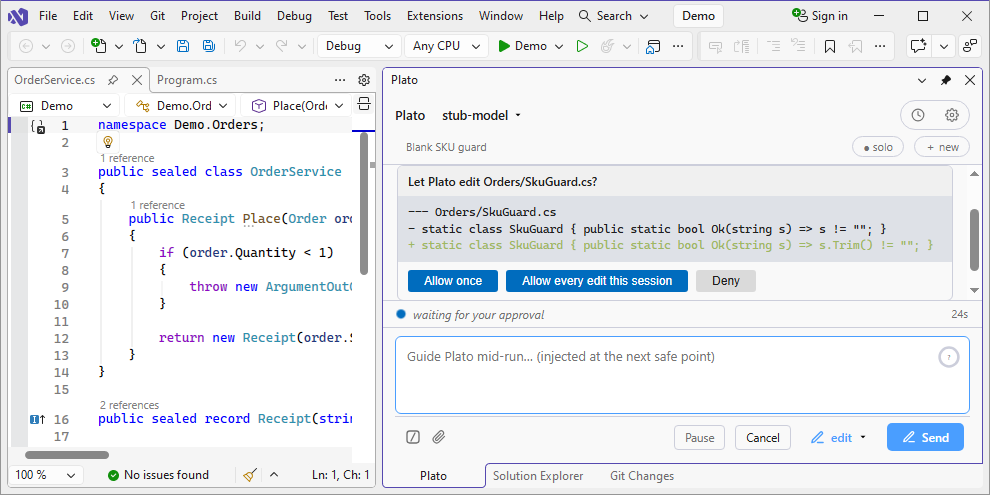
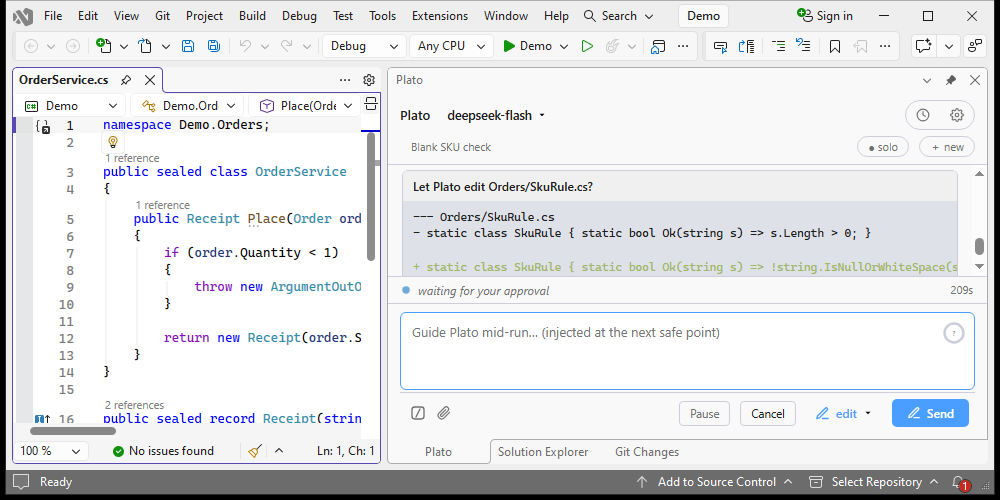
media: the Visual Studio set is re-captured against a real model
The six Visual Studio frames shipped on 2026-10-28 were captured against the
scripted field model, so every panel header read `stub-model`. This replaces
them with captures from a real provider: Visual Studio 2026 on Windows 10,
extension 0.1.4, DeepSeek `deepseek-flash`, window exactly 1000 x 500, five
light frames and one dark, no retouching.

Two honest limits are recorded in docs/media/README.md: the approval card's
three choices sit below the log viewport, and the Duo frame has seven observer
checks with no intervention.

The social card gains a generator, scripts/render/og-card.mjs, so the host list
in its footer lives in a string rather than in pixels.

diff --git a/docs/media/README.md b/docs/media/README.md
@@ -14,6 +14,19 @@ other. The site's copies stay 1000×500; these are the same files shown at
 GitHub's column width (about 830 px), so they are displayed slightly smaller
 than they were captured, deliberately, rather than re-captured for this page.
 
-The Visual Studio captures live in `C:\src\plato-vs-field\evidence\m6-shots\`;
-the record of what each frame contains is in `VS-SHOTS-REPLY.md` beside the
-website copies.
+The Visual Studio captures are the **real-model set of 2026-11-02**: Windows 10,
+Visual Studio 2026 18.11, extension 0.1.4, DeepSeek `deepseek-flash`, window
+exactly 1000 × 500. They supersede the scripted-model set of 2026-10-28, whose
+panel header read `stub-model`. The originals are in `C:\src\real-shots\` on the
+Windows 10 box; the superseded set is kept in
+`plato-artifacts/superseded/vs-shots-2026-10-29/`.
+
+Two limits of the new set, so nobody re-adds them to the page by accident:
+`vs-02` shows the approval card's heading and diff, but the three choices sit
+just below the panel's log viewport (the status strip reads *waiting for your
+approval*); `vs-06` shows a Duo run in which Aristotle checked seven times and
+did not intervene.
+
+The website copy of the same six files is `plato-website/vs-shots/`, served from
+`plato-website/assets/shots/vs/`; the Marketplace set is
+`plato-artifacts/listing-1000/`.
